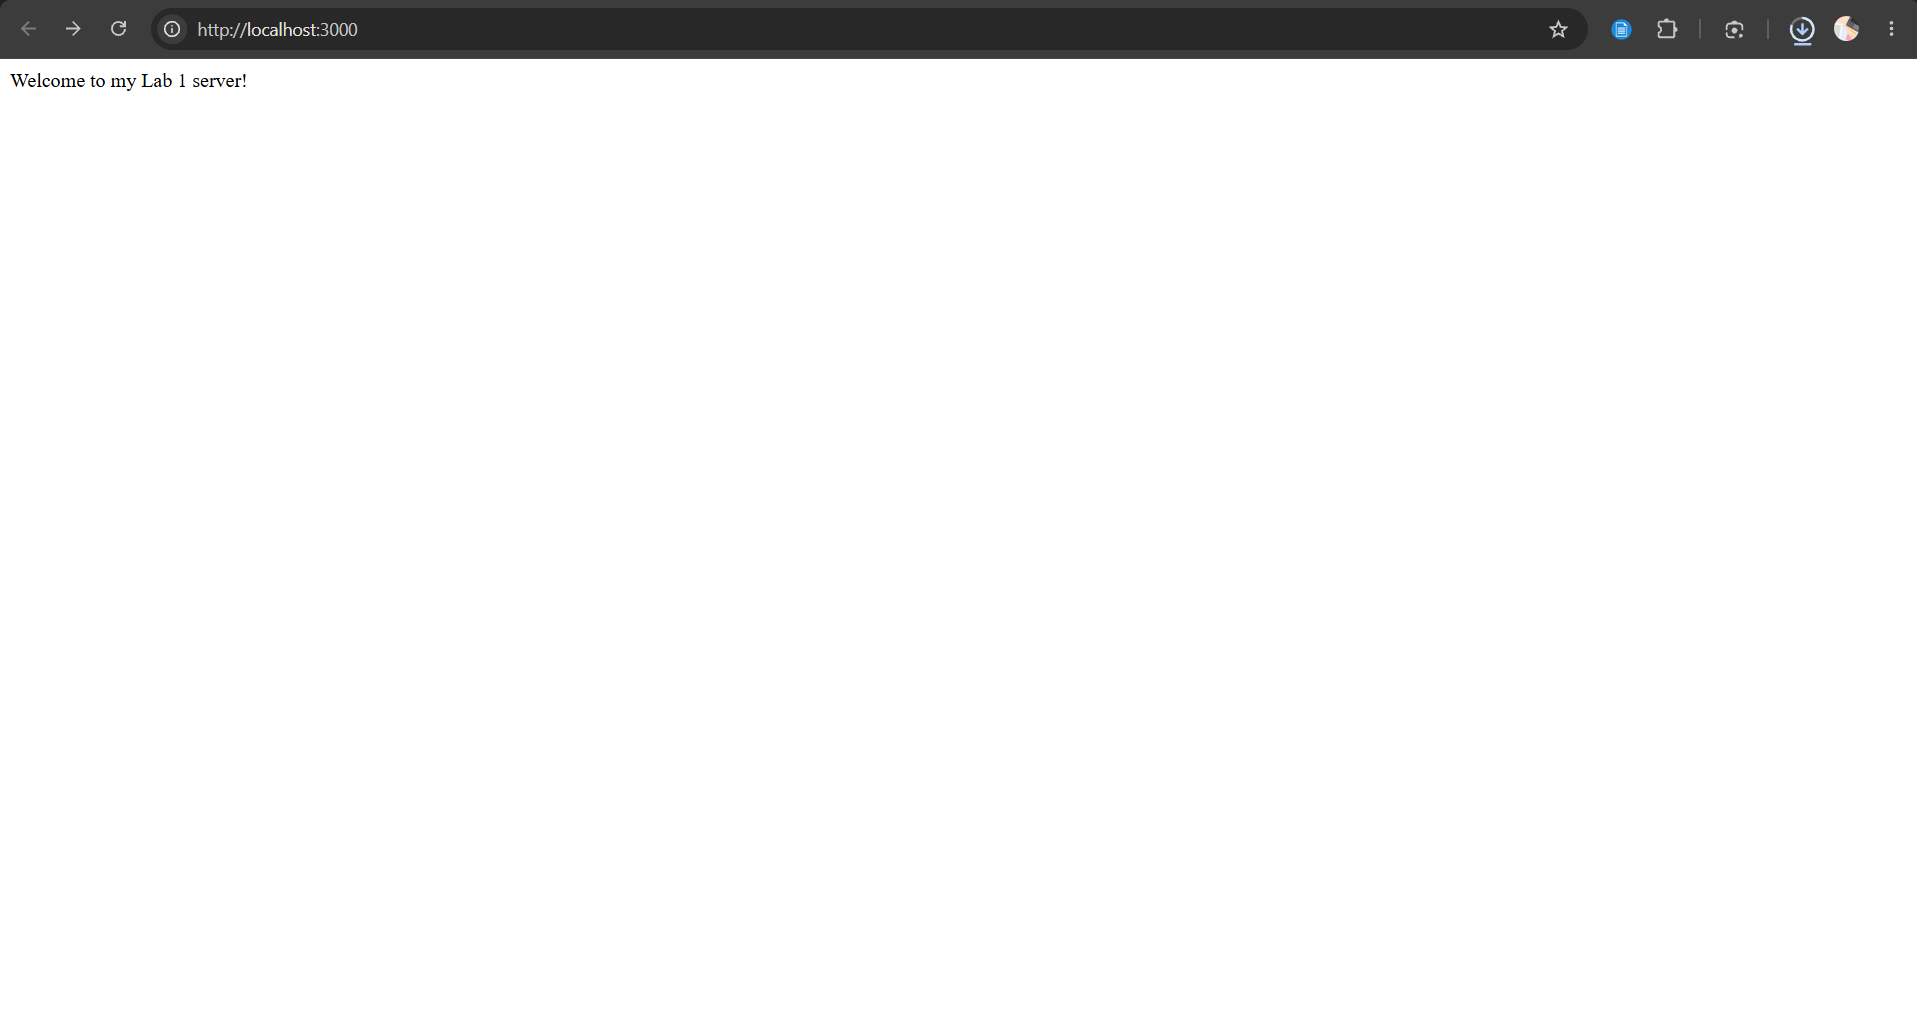
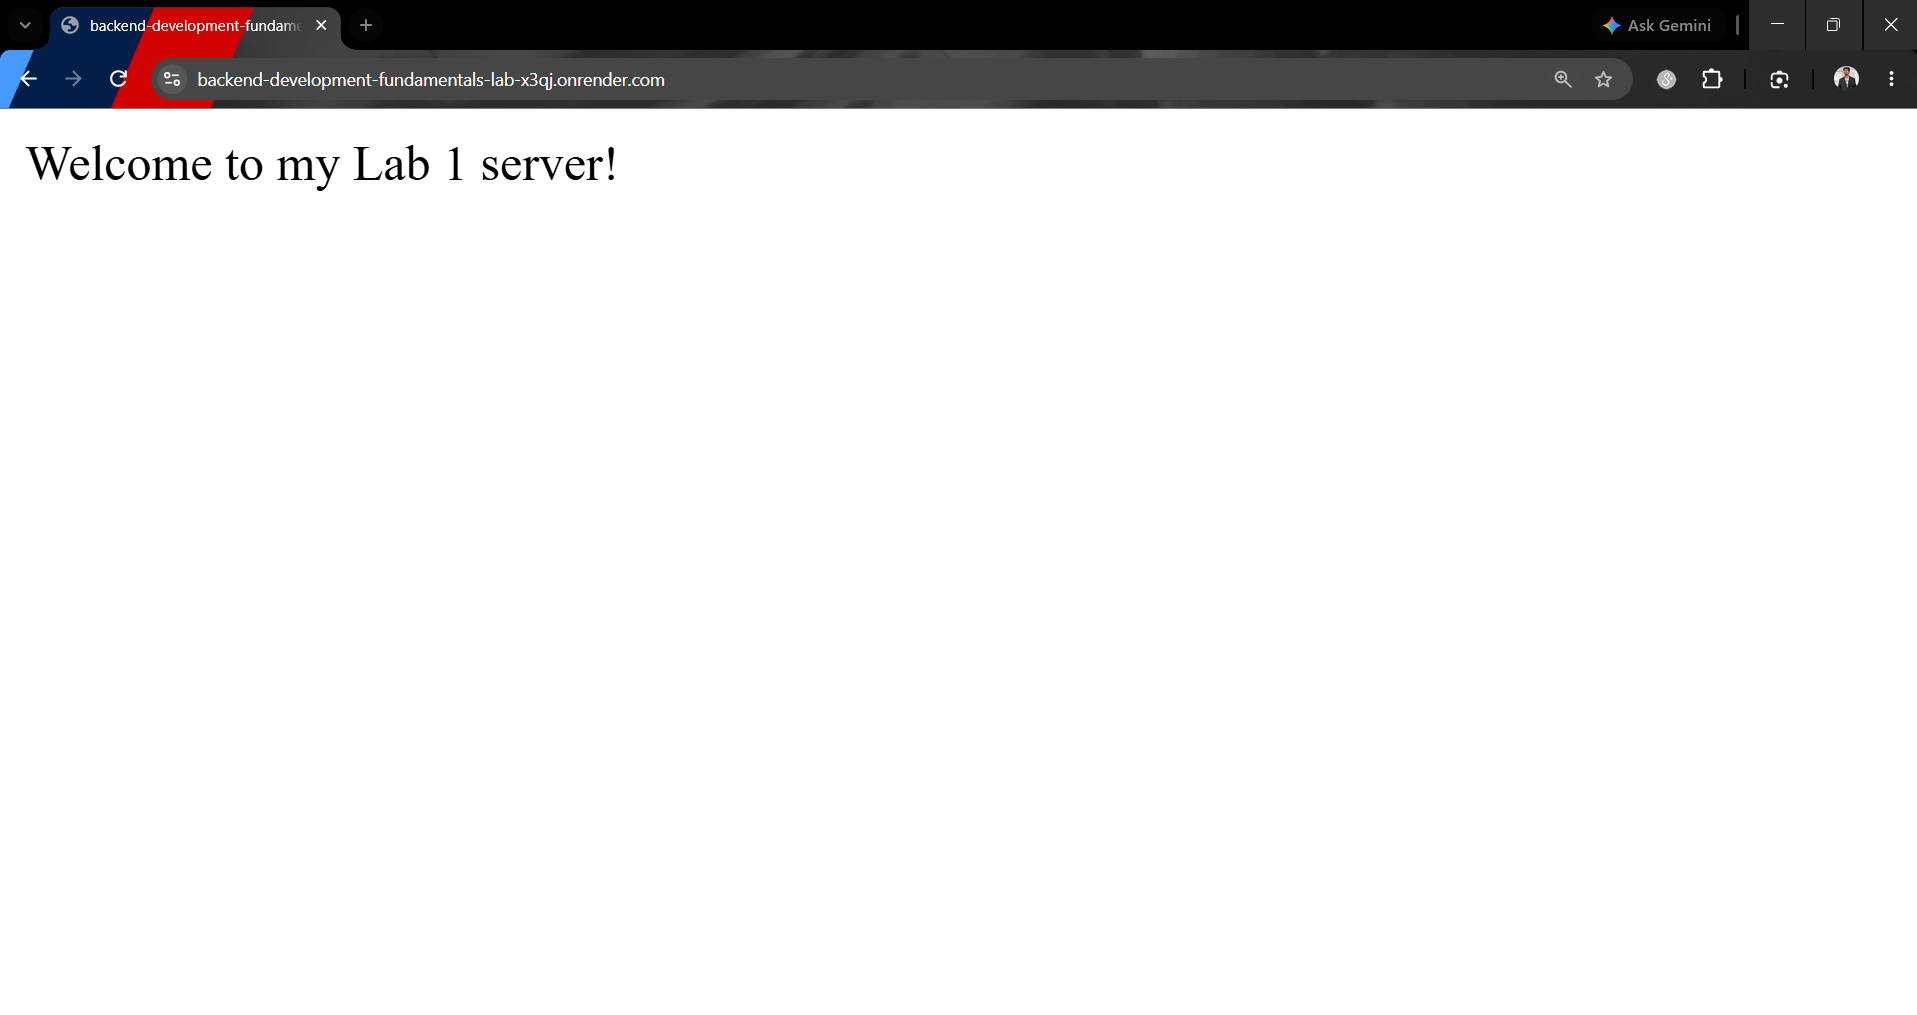
Update lab-01 README with Render deployment URL

Changed region(s): [[0.0, 0.0, 1.0, 0.1227], [0.0, 0.1533, 0.3385, 0.184]]

diff --git a/lab-01/README.md b/lab-01/README.md
@@ -10,7 +10,7 @@
 
 ## Live Link
 
-**Deployment URL: https://bdf-lab-01.vercel.app/
+**Deployment URL: https://backend-development-fundamentals-lab-x3qj.onrender.com
 
 ## Objective
 
